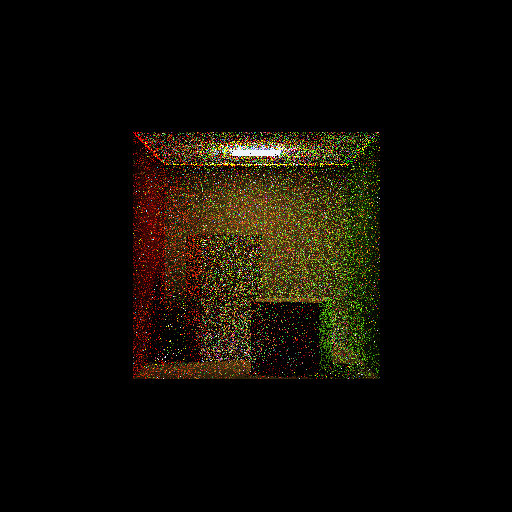
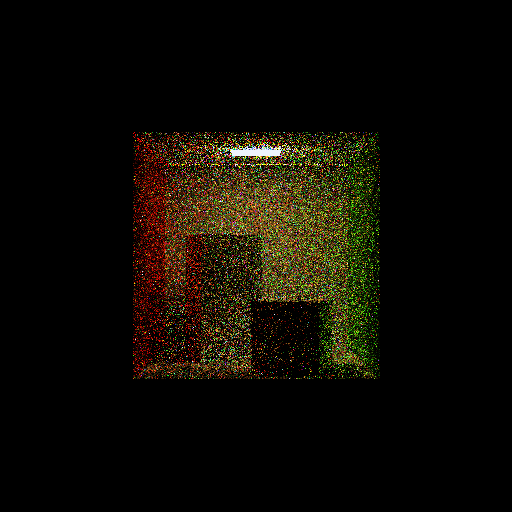
nothing helpful

Changed region(s): [[0.25, 0.25, 0.75, 0.75]]

diff --git a/cg-final/scene/triangle.hpp b/cg-final/scene/triangle.hpp
@@ -2,6 +2,7 @@
 #include <glm/glm.hpp>
 #include "material.hpp"
 #include "../tool/determinant.hpp"
+#define posive(X) ((X>=0) ? (X) : (-1 * (X)))
 
 struct Triangle {
 	glm::vec3 position[3];
@@ -23,9 +24,17 @@ struct Triangle {
 		Ro = r.getOrigin();
 		Rd = r.getDirection();
 
+		{
+			auto new_norm = glm::cross(position[0] - position[1], position[0] - position[2]);
+			new_norm = glm::normalize(new_norm);
+
+			if (posive(glm::dot(new_norm, Rd)) <= 0.001f) return false;
+		}
+
 		auto A = position[0];
 		auto B = position[1];
 		auto C = position[2];
+
 
 		float d0 = det3x3(A.x - B.x, A.x - C.x, Rd.x,
 			A.y - B.y, A.y - C.y, Rd.y,

diff --git a/cg-final/cg-final.cpp b/cg-final/cg-final.cpp
@@ -13,7 +13,7 @@
 
 int main()
 {
-    int max_bounce = 1;
+    int max_bounce = 3;
     float cutoff_weight = 0.01;
     bool shadows = true;
     bool shade_back = false;
